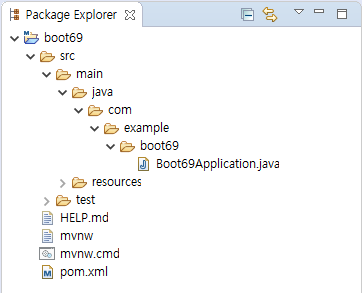
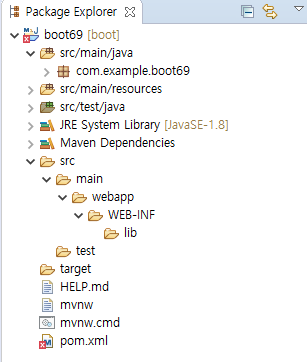
GitBook: [master] one page and one asset modified

Changed region(s): [[0.0, 0.0, 1.0, 1.0]]

diff --git a/java-study/1-days/83-days/spring-new-project.md b/java-study/1-days/83-days/spring-new-project.md
@@ -2,11 +2,27 @@
 
 ![](../../../.gitbook/assets/spring4.png)
 
+* File &gt; New &gt; Spring Starter Project
+
 ![](../../../.gitbook/assets/spring41.png)
+
+* Name : 프로젝트 별칭
+* Java Version맞추기
+* Next
 
 ![](../../../.gitbook/assets/spring42.png)
 
+* Web &gt; Speing Web, Spring Session, Spring Web Services 체크
+
 ![](../../../.gitbook/assets/spring43.png)
 
+* SQL &gt; Oracle Driver체크 &gt; Next
+
 ![](../../../.gitbook/assets/spring44.png)
+
+* Finish
+
+![](../../../.gitbook/assets/spring45.png)
+
+* 파일 확인 &gt; 필요한 폴더 생성
 
